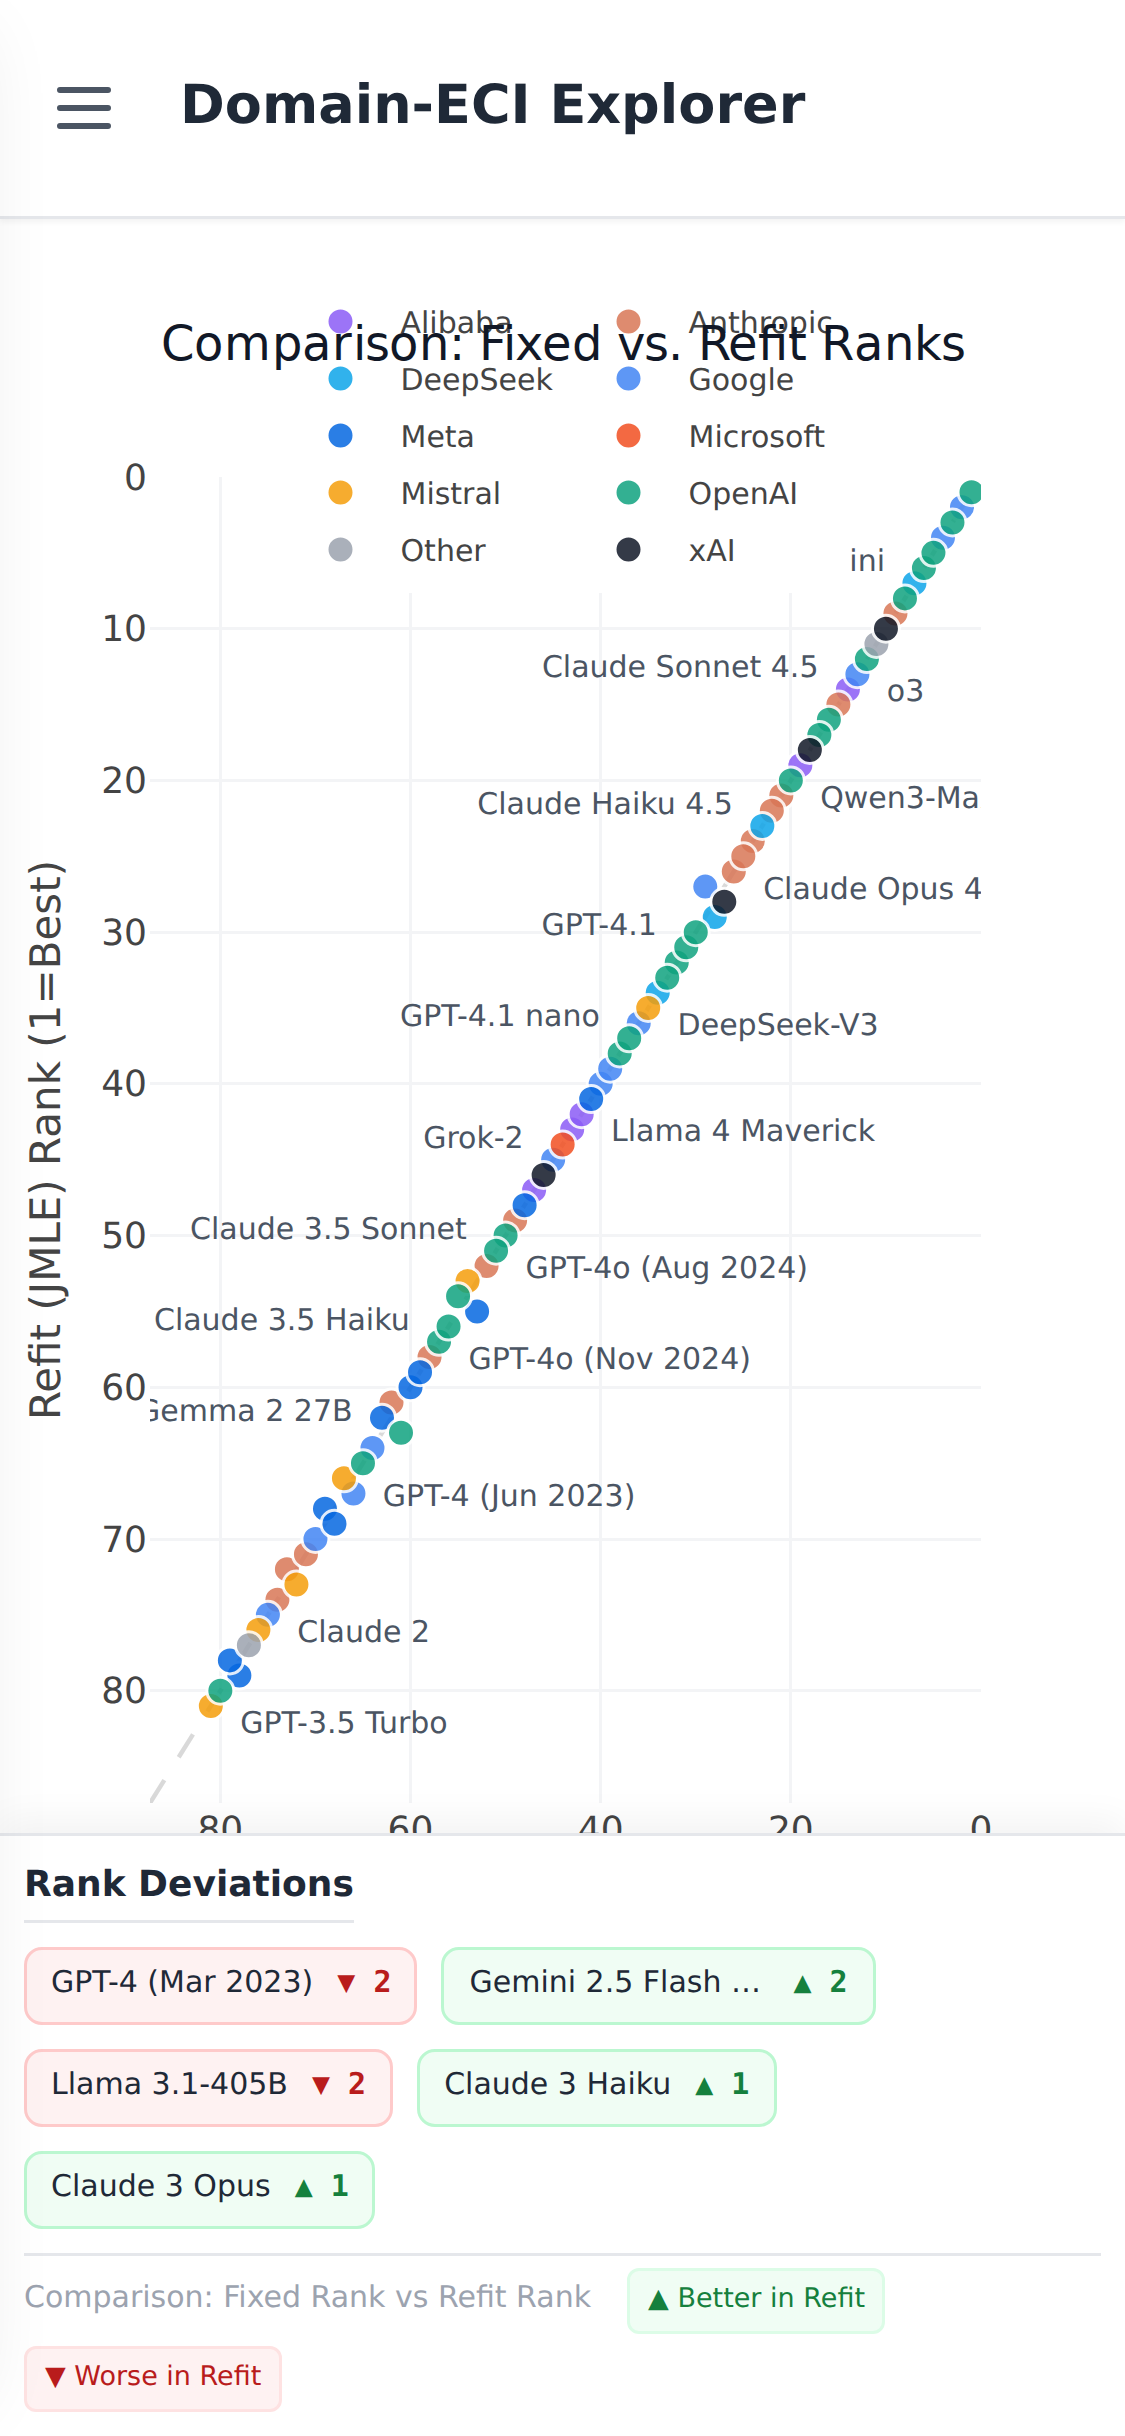
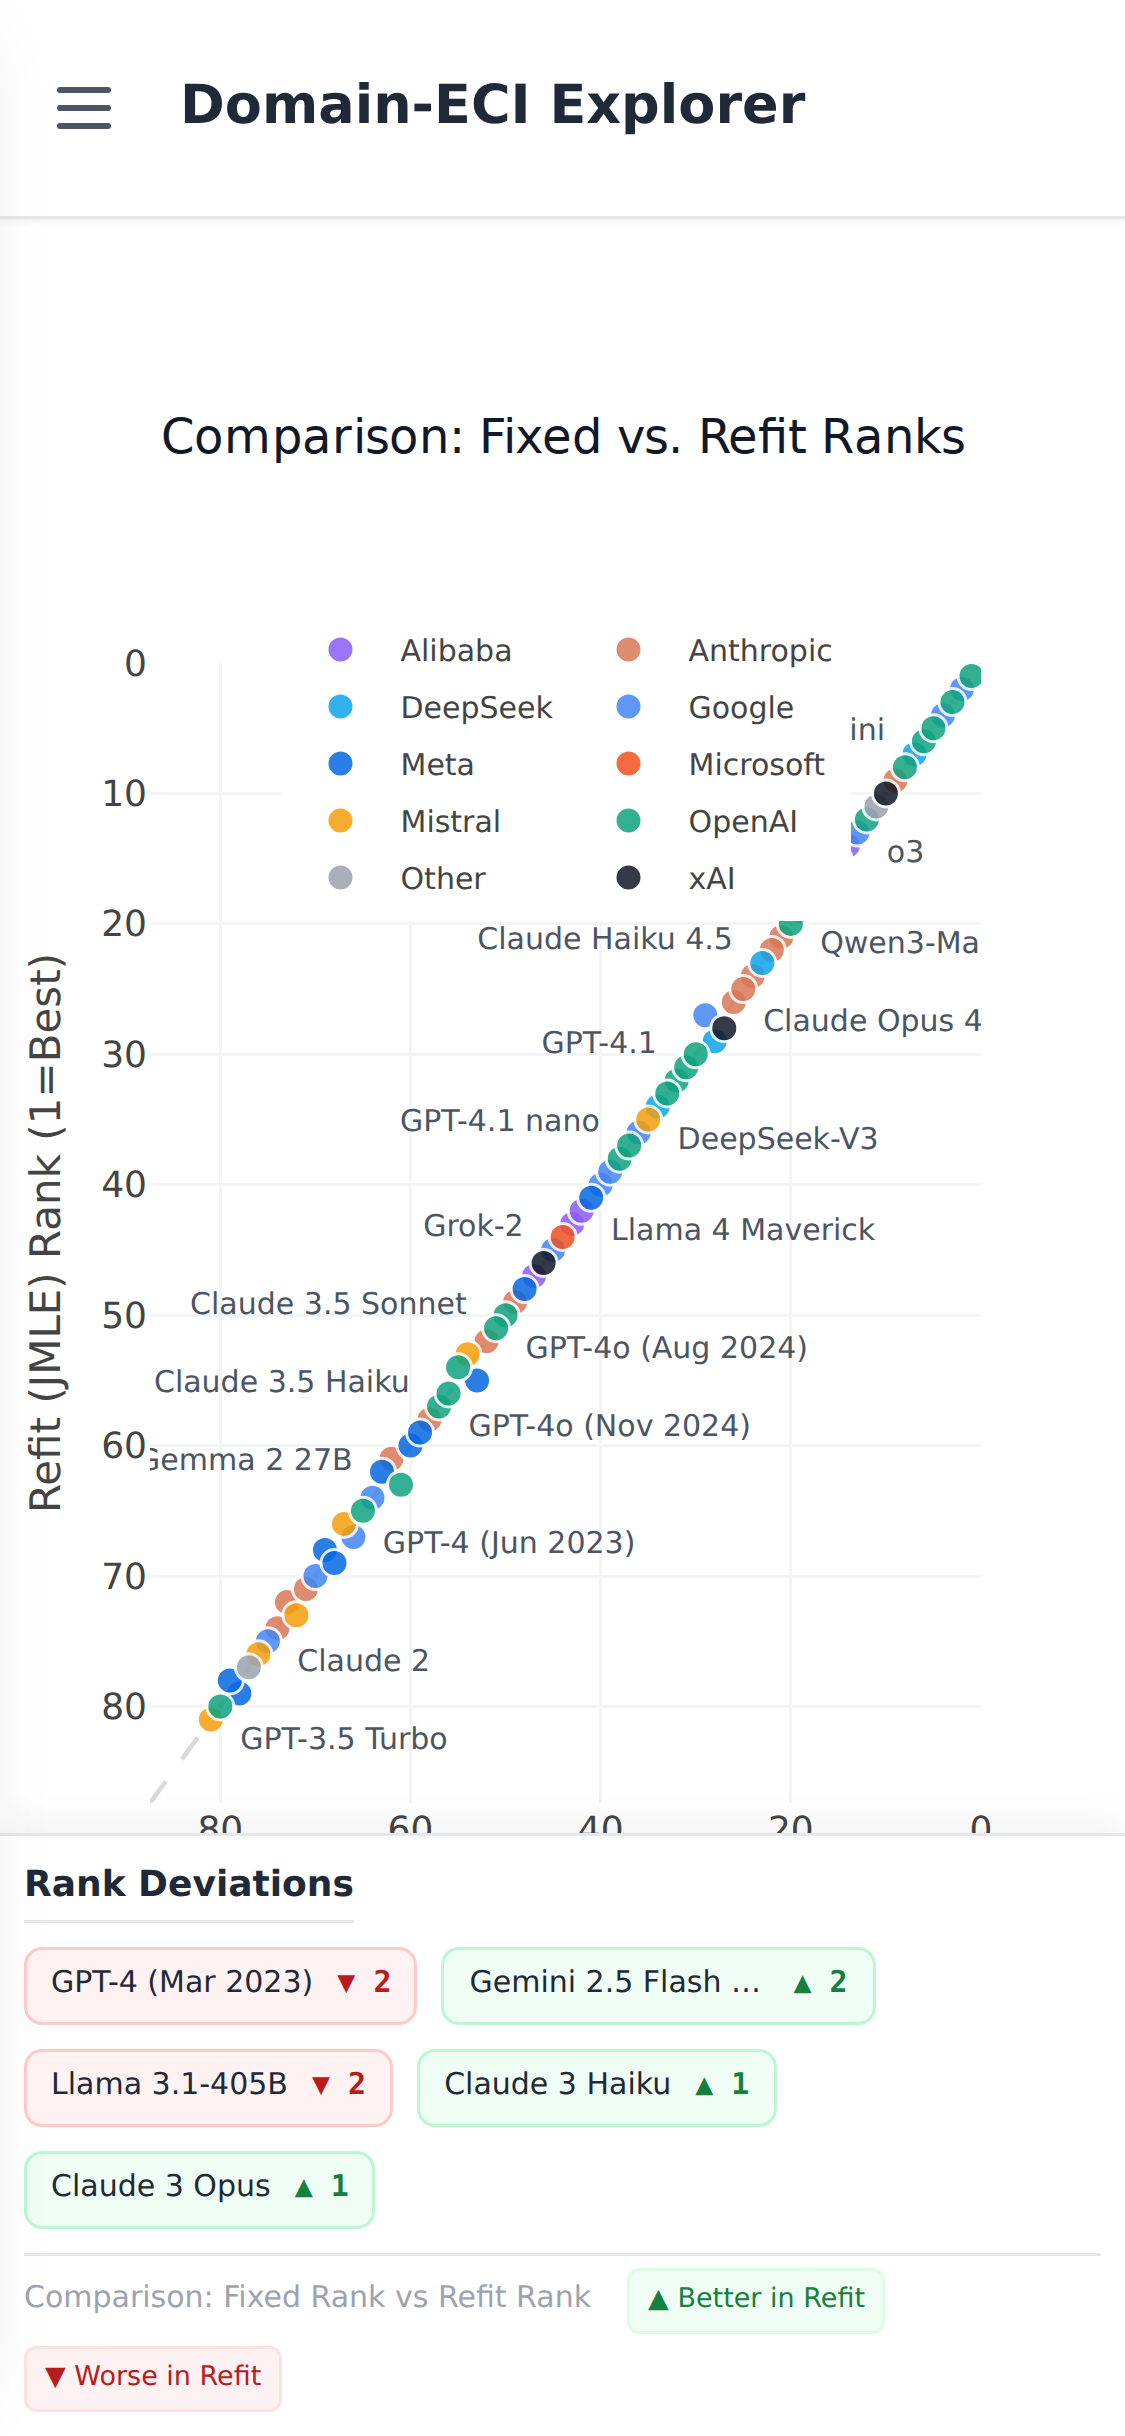
Deploy preview for PR 22 🛫

diff --git a/pr-preview/pr-22/domain_eci.html b/pr-preview/pr-22/domain_eci.html
@@ -1251,10 +1251,10 @@
                     yaxis: { title: { text: 'Domain-specific ECI', font: { weight: 600 } }, gridcolor: '#f3f4f6', zeroline: false, automargin: true },
                     hovermode: 'closest',
                     template: 'plotly_white',
-                    margin: isMobile ? { t: 60, r: 40, l: 40, b: 40 } : { t: 90, r: 50, l: 80, b: 100 },
+                    margin: isMobile ? { t: 140, r: 40, l: 40, b: 40 } : { t: 90, r: 50, l: 80, b: 100 },
                     legend: {
                         orientation: 'h',
-                        y: isMobile ? 1.15 : -0.15,
+                        y: isMobile ? 1.05 : -0.15,
                         x: 0.5,
                         xanchor: 'center',
                         font: { size: isMobile ? 10 : 13, weight: 500 }
